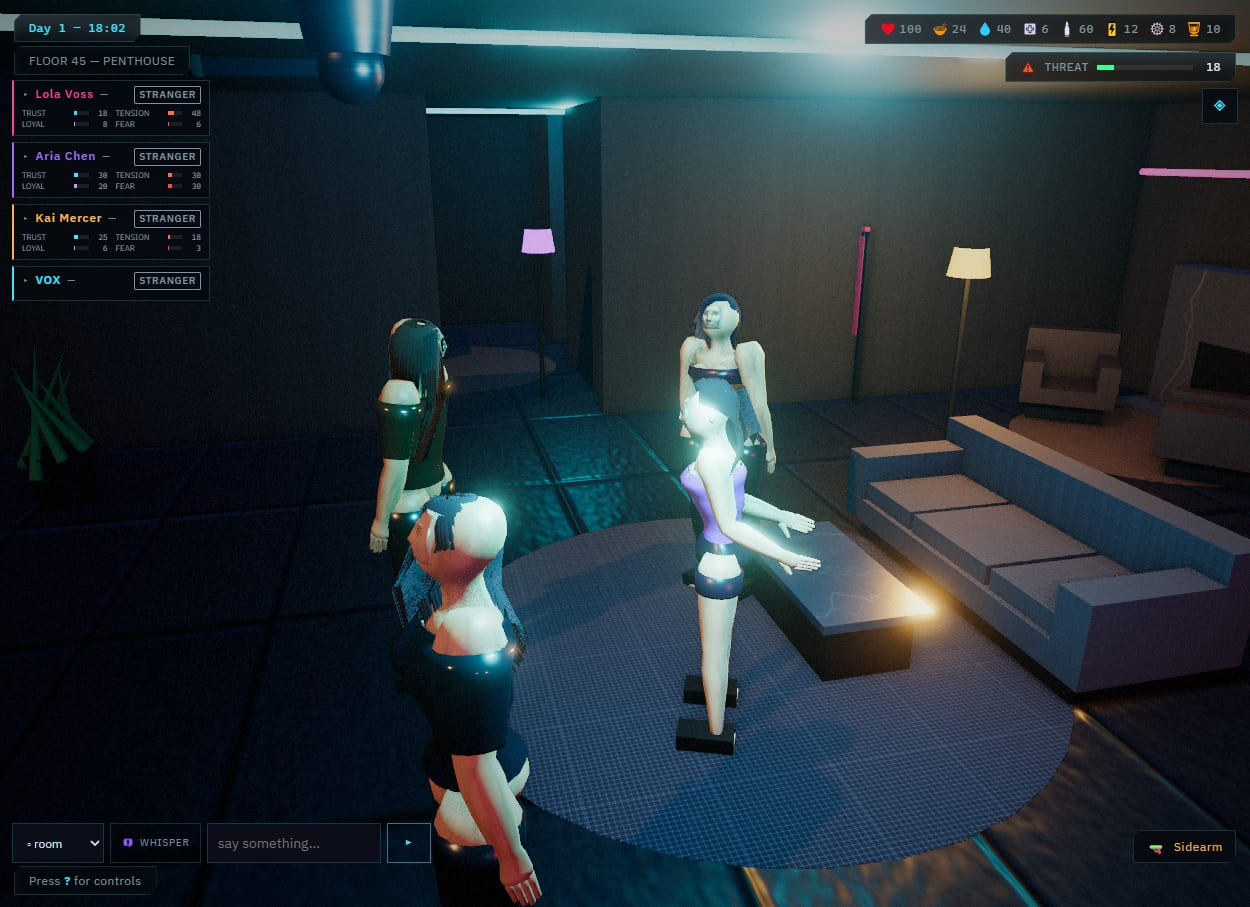
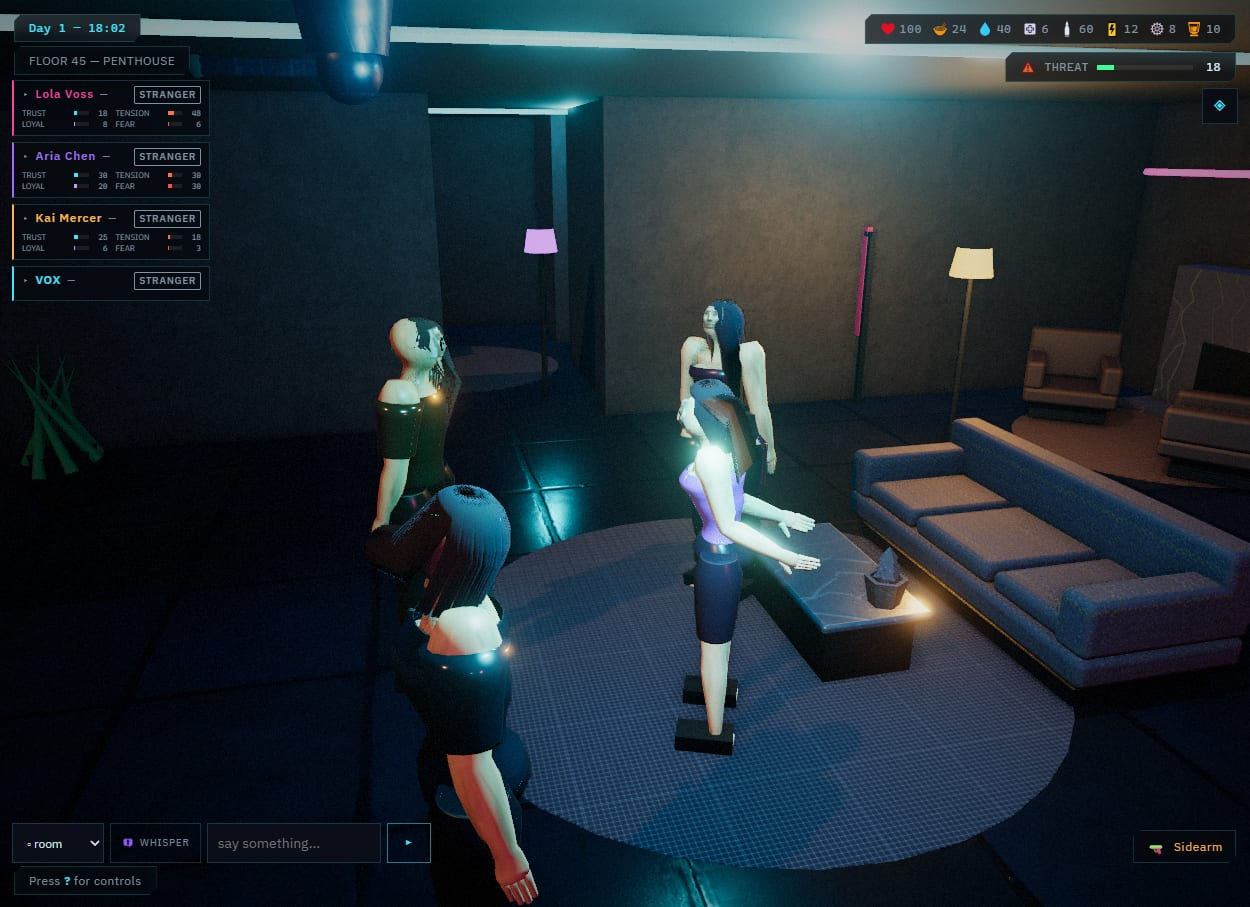
docs: v0.7.0-alpha.2 — PBR surfaces, world UVs, bevels, prop dressing

diff --git a/docs/systems/scene-audio-ui.md b/docs/systems/scene-audio-ui.md
@@ -30,6 +30,68 @@ pattern for any new presentation layer.
   **Gotcha:** each pull uses a large **invisible hit-proxy** box (`material.visible=false` still raycasts)
   so the center-screen FP crosshair can actually land on it — the brass tie-back ring alone is too small.
 
+### Materials (`src/scene3d/materials/`)
+- **`pbr.js` — `PBR_LIBRARY` + `pbrMaterial(name, {tint, roughness, metalness})`** — every shell and
+  furniture surface is one of these named entries, keyed by tint/roughness/metalness and cached, so
+  identical requests share one `THREE.MeshStandardMaterial` instance:
+
+  | name | Poly Haven set | metres/repeat |
+  | --- | --- | --- |
+  | `concrete` | `smooth_concrete_floor` | 2.5 |
+  | `concreteFloor` | `concrete_floor_worn_001` | 2.0 |
+  | `metal` | `metal_plate_02` | 1.0 |
+  | `metalDark` | `painted_metal_shutter` | 1.2 |
+  | `tile` | `floor_tiles_08` | 6.0 (1.5 m slabs; scan is 4×4) |
+  | `marble` | *(procedural only — `marble_01` is travertine blocks, not veined marble)* | 1.5 |
+  | `wood` | `plank_flooring_04` (`rotate: true`) | 1.8 |
+  | `fabric` | `dirty_carpet` | 0.8 |
+  | `bedding` | *(procedural only — reads better than any carpet scan at bed scale)* | 0.6 |
+  | `rust` | `rusty_metal_02` | 1.2 |
+
+  **Hybrid rule:** when the asset pipeline has decoded a set's textures
+  (`src/assets/assets.js`), `pbrMaterial` builds a `MeshStandardMaterial` from its
+  albedo/normal/ORM (AO/roughness/metalness) maps; otherwise it falls back to the
+  matching `texGen.js` canvas + Sobel normal map. A missing file, `?noassets=1`, or
+  a Node test all take the procedural path — never an untextured box.
+  Colour and roughness are **measured, not guessed**: each entry records the set's
+  own mean linear albedo and ORM roughness/metalness means, and a loaded set's
+  colour is `tint / albedo` per channel (capped so no channel's mean exceeds 0.9)
+  and its roughness/metalness scalars are `authored / scanRoughness` (/
+  `scanMetalness`) — so **the tint IS the displayed colour** on a loaded set too,
+  and an **authored roughness override is honoured** (a 0.2-gloss floor actually
+  renders glossy) instead of being overwritten by the scan's own values.
+  **The returned material is SHARED — never mutate it** (clone it, or swap a
+  per-mesh copy in and out the way `picking.js`'s hover glow does).
+- **`worldUV.js` — `applyWorldUVsTo(root)`** — rewrites UVs so every box, cylinder
+  (arc-length unroll + plan-view caps), sphere, and scaled mesh gets one texture
+  repeat per `material.userData.metresPerRepeat` metres, so a 2.4 m counter and a
+  0.3 m shelf show grain at the same scale. `World3D` runs it once per floor after
+  that floor's meshes are built. A material with `userData.uvRotate` (the `wood`
+  entry's `rotate: true`) gets U/V swapped so its plank boards run along the
+  panel instead of standing as vertical slats.
+- **Bevels** — `tower/furniture.js`'s `box(group, material, w, h, d, x, y, z, ry,
+  { bevel })` swaps in `RoundedBoxGeometry` above a ~2 mm bevel (`HERO = 0.02`,
+  `SOFT = 0.045`) so hero pieces (couch, armchairs, bed, tables, counters, desks)
+  catch a highlight on their edges; colliders and sockets are computed from the
+  same box dimensions and are unaffected.
+- **Seeded texGen (`texGen.js` — `recipeRandom(key)`)** — every procedural
+  recipe (concrete, wood grain, city-window skyline, …) draws from a
+  `mulberry32` stream seeded from `texgen:${key}` instead of `Math.random()`, so
+  the same cache key always paints the same texture across boots — required for
+  reproducible screenshots and visual review.
+- **Prop dressing (`tower/props.js` — `fitProp(model, height, material)`,
+  `data/propDressing.js`)** — a Kenney model clone is baked to world geometry,
+  centred on its own footprint, scaled uniformly to a real `height` in metres,
+  re-skinned with one library material (Kenney's atlas UVs mean nothing to a
+  tiled PBR texture, so `fitProp` re-runs `applyWorldUVs` on it), and placed. Each
+  prop is opt-in per floor in `propDressing.js`; if the source model failed to
+  load, the prop is simply **absent — never a placeholder**.
+- **Per-floor preload (`tower/zoneBuilder.js` — `World3D.create(...)`)** — the
+  async factory awaits every PBR set (`PBR_SET_IDS`) and prop model a floor needs
+  before building that floor's Group, and the floor stays hidden until its build
+  finishes, so nothing pops in as textures or models arrive late. The synchronous
+  constructor still builds procedurally (no await) so unit tests stay fast.
+
 ### Asset facade (`src/assets/`)
 - **`assets.js` — `createAssets({loaders, enabled, base, fetchJson, manifestTimeoutMs, log})`** —
   the one door for binary assets. `init()` reads `assets/manifest.json` (10 s timeout); then

diff --git a/CHANGELOG.md b/CHANGELOG.md
@@ -3,6 +3,46 @@
 All notable changes to Neon-City: Lock-Down. This project adheres to
 [semantic versioning](https://semver.org/).
 
+## [0.7.0-alpha.2] — 2026-09-28 — Surfaces
+
+The tower stops looking like untextured boxes. Every shell and furniture
+surface comes from a named PBR library backed by Poly Haven scans, with the
+old canvas textures as the fallback per surface.
+
+### Added
+- **PBR material library** (`src/scene3d/materials/pbr.js`) — `concrete`,
+  `concreteFloor`, `metal`, `metalDark`, `tile`, `marble`, `wood`, `fabric`,
+  `bedding`, `rust`. Each is a 1K Poly Haven set (albedo, normal, packed
+  AO/roughness/metalness) when the asset pipeline has it, and the texGen
+  canvas + Sobel normal map otherwise. Colour and roughness are measured
+  against each scan's own mean, so a loaded set's tint is the displayed
+  colour and an authored roughness override still holds.
+- **World-scale UVs** (`src/scene3d/materials/worldUV.js`) — one texture repeat
+  per N metres on every box, cylinder (arc-length unroll + plan-view caps),
+  sphere, and scaled mesh, so a 2.4 m counter and a 0.3 m shelf show their
+  grain at the same scale.
+- **Bevelled hero furniture** — couch, armchairs, bed, tables, counters and
+  desks use RoundedBoxGeometry, so their edges catch a highlight. Colliders and
+  sockets are unchanged.
+- **Kenney prop dressing** (`data/propDressing.js`) — books, a plant, a bin, a
+  laptop, boxes, a rooftop tank and solar panel, fitted to real heights and
+  re-skinned with library materials. Opt-in per prop; absent (never a
+  placeholder) if the model did not load.
+- `World3D.create()` preloads each floor's assets before building it, so
+  nothing pops in; floors stay hidden until the build finishes.
+
+### Fixed
+- Procedural textures were drawn with `Math.random()`, so every boot painted
+  different concrete, wood grain and skyline windows. Each recipe now seeds its
+  own stream from its cache key.
+- The hover glow no longer mutates shared materials: the picker clones a
+  mesh's material once, glows the clone, and releases it (including when a
+  hostile is removed mid-hover). A cinematic camera hovers nothing, fixing the
+  bed two-shot washed flat cyan by a stale hover.
+- Outfit layout: a top worn with a bottom tucks under the waistband instead of
+  showing a bare skin band at the hip; shorts run to just above the knee, and
+  the shirtless swim/sleep states got a top.
+
 ## [0.7.0-alpha.1] — 2026-09-27 — Plumbing
 
 The first stage of sub-project 2 (asset pipeline + render quality). Nothing

diff --git a/README.md b/README.md
@@ -80,6 +80,10 @@ generated or hand-authored**. The only third-party runtime dependency is three.j
     <td><img src="docs/screenshots/10-extraction-victory.jpg" alt="Extraction ending"><br><sub><b>Perma-death & endings</b> — survive to the extraction, or don't. A run summary either way.</sub></td>
     <td></td>
   </tr>
+  <tr>
+    <td><img src="docs/screenshots/v0.6/03-penthouse-lounge.jpg" alt="Penthouse lounge, v0.6"><br><sub><b>Before (v0.6)</b> — the penthouse lounge on the old canvas textures.</sub></td>
+    <td><img src="docs/screenshots/03-penthouse-lounge.jpg" alt="Penthouse lounge, alpha.2"><br><sub><b>After (alpha.2)</b> — the same lounge on the PBR material library: world-scale UVs, bevelled hero furniture, measured tint and roughness.</sub></td>
+  </tr>
 </table>
 
 <sub>Every image is captured from the running game by <code>node tools/screenshots.mjs</code> — see <a href="docs/development.md">docs/development.md</a>.</sub>
@@ -108,8 +112,10 @@ generated or hand-authored**. The only third-party runtime dependency is three.j
   skeletons with parametric skinning, physically-shaded skin (sheen) and hair
   (anisotropic clearcoat), canvas + 3D-eye face rigs, and a layered animator
   (procedural gait, pose clips, additive breathing, gaze). 14 zones across 7
-  floors, elevator transit, 10 lighting presets, time-of-day, a procedural city
-  backdrop, rain, news-ticker monitors, and **openable velvet curtains** that draw
+  floors built from a PBR material library (Poly Haven scans, procedural
+  fallback) with world-scale UVs and bevelled hero furniture, elevator
+  transit, 10 lighting presets, time-of-day, a procedural city backdrop,
+  rain, news-ticker monitors, and **openable velvet curtains** that draw
   across the glass to shut out the city.
 - **New-game flow & roguelike.** A main menu picks from 15 scenarios (three earned by play) and 3
   starting loadouts (Fixer / Survivor / Gunhand), continues an autosave, or opens
@@ -226,7 +232,7 @@ API references, the gameplay loop, and the event catalog.
 ## Development
 
 ```bash
-npm test                              # node --test — 313 unit tests (stats, bond, dialogue, combat, sim…)
+npm test                              # node --test — 363 unit tests (stats, bond, dialogue, combat, sim…)
 npm run test:e2e                      # playwright — 12 end-to-end tests in a real headless browser
 npm run test:all                      # unit + linters + e2e
 node tools/lint-data.mjs              # validate all content modules + cross-references

diff --git a/AGENTS.md b/AGENTS.md
@@ -9,7 +9,7 @@ tower (three.js, no bundler, no build step). The player is locked in a
 penthouse with three autonomous NPCs while riots and faction wars tear up the
 streets below — chat-first roleplay, day/night survival, combat, and
 mini-games, all driven by an offline dialogue engine with an optional LLM
-adapter for surface-text restyling. Current version: **0.7.0-alpha.1**, sub-project 2 of the 7-part upgrade (asset pipeline + render quality).
+adapter for surface-text restyling. Current version: **0.7.0-alpha.2**, sub-project 2 of the 7-part upgrade (asset pipeline + render quality).
 
 ## Run / test / lint
 
@@ -64,6 +64,14 @@ After any UI change a README screenshot shows, re-run the matching shot
   version. `?noassets=1` forces that path for the whole game. Assets are added
   only through `assets/manifest.json` + `tools/fetch-assets.mjs` (CC0 only,
   40 MB budget, sha256-checked by `npm run lint`).
+- **`src/scene3d/materials/pbr.js`** — every shell and furniture surface is a
+  named library material (`pbrMaterial(name, {tint, roughness, metalness})`),
+  shared per key, carrying `userData.metresPerRepeat` for world UVs. Add a
+  surface to the library rather than building a one-off MeshStandardMaterial.
+  **The returned material is shared — never mutate it** (clone before
+  changing anything on it); its tint IS the displayed colour (measured
+  against the scan's own mean albedo), and its roughness is honoured against
+  the scan's measured `scanRoughness`, not overwritten.
 
 ## Blender (dev tool, optional)
 
@@ -143,7 +151,7 @@ node tools/blender/run.mjs preview <in> <out.png>                  # 512² EEVEE
 0.7 is sub-project 2 of a 7-part upgrade:
 
 1. Content cleanse + bonds (v0.6, released)
-2. Asset pipeline + render quality (this sub-project, at alpha.1)
+2. Asset pipeline + render quality (this sub-project, at alpha.2)
 3. GLTF characters
 4. Survival/lockdown loop
 5. Combat and stealth
